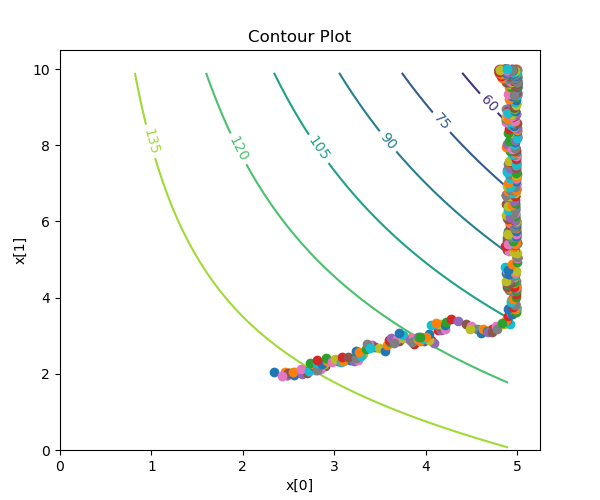
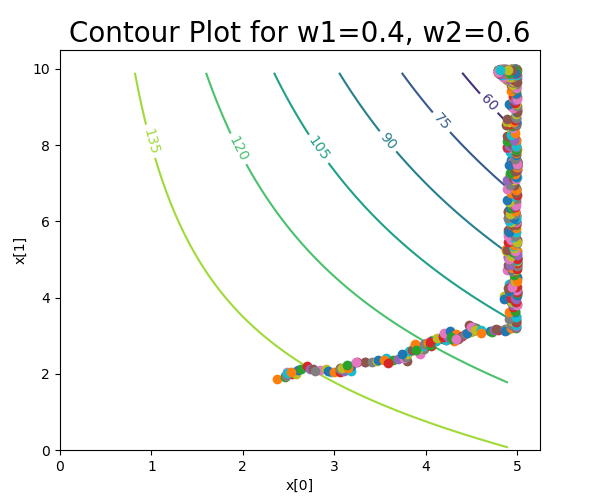
Change plot titles in task 2

Changed region(s): [[0.45, 0.12, 0.87, 0.78], [0.12, 0.03, 0.9, 0.09], [0.06, 0.12, 0.09, 0.15]]

diff --git a/task2/task2.py b/task2/task2.py
@@ -1,5 +1,4 @@
 import matplotlib.pyplot as plt
-
 import numpy as np
 from numpy import asarray
 from numpy.random import rand
@@ -10,9 +9,6 @@ for i in range(11):
     w2 = 1 - i / 10.0
 
 
-    # w1 = 0.0
-    # w2 = 1.0
-
     def objective(x):
         f1 = 0.5 * np.power(x[0], 2) * x[1]
         f2 = np.power(x[0], 2) + 3 * x[0] * x[1]
@@ -20,8 +16,8 @@ for i in range(11):
         r2 = 250
         return np.maximum(w1 * np.abs(f1 - r1), w2 * np.abs(f2 - r2))
 
-
     # black-box optimization software
+
     def local_hillclimber(objective, bounds, n_iterations, step_size, init):
         # generate an initial point
         best = init
@@ -41,7 +37,8 @@ for i in range(11):
             points.append(candidate)
             print('>%d f(%s) = %.5f, %s' % (i, best, best_eval, candidate))
             # evaluate candidate point
-            candidate_eval = objective(candidate)  # check for new best solution
+            # check for new best solution
+            candidate_eval = objective(candidate)
             if candidate_eval < best_eval:  # store new best point
                 best, best_eval = candidate, candidate_eval
                 # keep track of scores
@@ -50,32 +47,38 @@ for i in range(11):
                 curr = candidate
         return [best, best_eval, points, scores]
 
-
     bounds = asarray([[0, 5], [0, 10]])
     step_size = [0.2, 0.2]
     n_iterations = 1000
     init = [2.4, 2.0]
+
     best, score, points, scores, = local_hillclimber(objective, bounds, n_iterations, step_size, init)
     all_bests.append(best)
+
     n, m = 7, 7
     start = -3
     x_vals = np.arange(0, 5, 0.1)
     y_vals = np.arange(0, 10, 0.1)
     X, Y = np.meshgrid(x_vals, y_vals)
+
     print(X.shape)
     print(Y.shape)
+
     fig = plt.figure(figsize=(6, 5))
     left, bottom, width, height = 0.1, 0.1, 0.8, 0.8
     ax = fig.add_axes([left, bottom, width, height])
-    # Z = 0.1 * np.abs((0.5 * np.power(X, 2) * Y)) + 0.9 * np.abs((np.power(X, 2) + 3 * X * Y) - 250)
+    # Z = 0.1 * np.abs((0.5 * np.power(X, 2) * Y)) +
+    # 0.9 * np.abs((np.power(X, 2) + 3 * X * Y) - 250)
     Z = objective([X, Y])
     print(Z)
+
     cp = ax.contour(X, Y, Z)
     ax.clabel(cp, inline=True, fontsize=10)
-    ax.set_title('Contour Plot')
+    ax.set_title(f'Contour Plot for w1={round(w1,2)}, w2={round(w2,2)}', fontsize=20)
     ax.set_xlabel('x[0]')
     ax.set_ylabel('x[1]')
+
     for i in range(n_iterations):
-        plt.plot(points[i][0], points[i][1], "o");
-    plt.savefig(f'pareto{w1}_{w2}.png')
+        plt.plot(points[i][0], points[i][1], "o")
+    plt.savefig(f'pareto{round(w1,2)}_{round(w2,2)}.png')
 print('all', all_bests)

diff --git a/task3/task3.py b/task3/task3.py
@@ -1,16 +1,15 @@
 # # Basics of desdeo-emo
+from numpy import random
 import matplotlib.pyplot as plt
 import numpy as np
 import pandas as pd
 import plotly.express as px
-import plotly.express as px
-import plotly.graph_objects as go
-import plotly.graph_objects as go
 # from desdeo_problem.testproblems.TestProblems import test_problem_builder
 from desdeo_emo.EAs import NSGAIII
 from desdeo_problem import variable_builder, ScalarObjective, MOProblem
+
+
 # from sklearn.datasets import load_iris, load_boston, load_wine
-from sklearn.preprocessing import MinMaxScaler
 
 
 # Define Objective function
@@ -26,7 +25,8 @@ def f_2(x):
     r1 = x[:, 0]
     r2 = x[:, 1]
     h = x[:, 2]
-    surface = np.pi * h * (3 * (r1 + r2) - np.sqrt((3 * r1 + r2) * (r1 + 3 * r2))) + 2 * np.pi * r1 * r2
+    surface = np.pi * h * \
+        (3 * (r1 + r2) - np.sqrt((3 * r1 + r2) * (r1 + 3 * r2))) + 2 * np.pi * r1 * r2
     # volume_icecreamcone = 1.0 / 3.0 * (np.pi) * r ** 2 * h
     # volume_filled_icecreamcone=1.0 /3.0 * (np.pi) * r**2 * h + 0*1/2*4.0 / 3.0 *np.pi *r**3
     return -surface
@@ -38,7 +38,8 @@ def f_2(x):
 #    return term1 + term2 - 13
 
 
-# Note that the expected input `x` is two dimensional. It should be a 2-D numpy array.
+# Note that the expected input `x` is two dimensional. It should be a 2-D
+# numpy array.
 
 # ## Create Variable objects
 
@@ -78,15 +79,13 @@ while evolver.continue_evolution():
 individuals, solutions, _ = evolver.end()
 
 pd.DataFrame(solutions).to_csv("data/ParetoFront.csv")
-import matplotlib.pyplot as plt
 
 # Add a random sample to the plot
-from numpy import random
 
 r1 = random.rand(1000, 1) * (10.0)
 r2 = random.rand(1000, 1) * (10.0)
 h = random.rand(1000, 1) * (10.0)
-Z = [];
+Z = []
 
 len_data = 1000 + len(solutions)
 labels = np.zeros(len_data)
@@ -136,7 +135,8 @@ for i in range(1001, 1000 + len(d2)):
     labels[i] = '1'
 
 data = pd.read_csv(r'data/ParetoFront.csv', sep=',')
-df = pd.DataFrame([labels, F1, -F2, X1, X2, X3], ["Label", "F1", "F2", "R1", "R2", "H"])
+df = pd.DataFrame([labels, F1, -F2, X1, X2, X3],
+                  ["Label", "F1", "F2", "R1", "R2", "H"])
 dft = df.transpose()
 print(dft)
 
@@ -145,6 +145,9 @@ plt.savefig('task3/par.png')
 
 cols = ["Label", "F1", "F2", "R1", "R2", "H"]
 
-fig = px.parallel_coordinates(dft, color="Label", dimensions=cols,
-                              title="Geomertrical Shape Pareto Parallel Coorinates Plot")
+fig = px.parallel_coordinates(
+    dft,
+    color="Label",
+    dimensions=cols,
+    title="Geomertrical Shape Pareto Parallel Coorinates Plot")
 fig.write_image('task3/par2.png')
